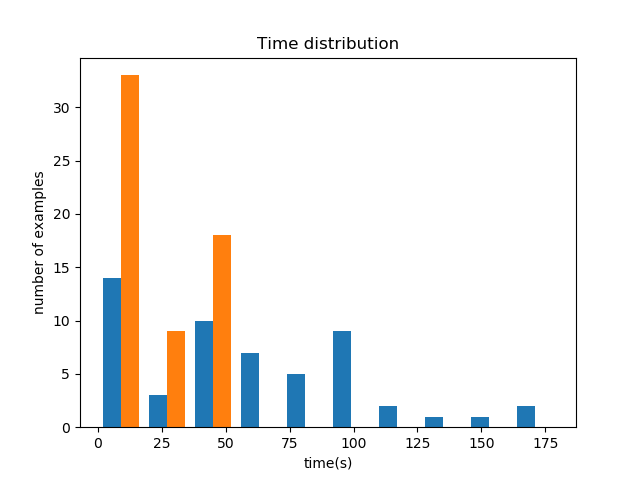
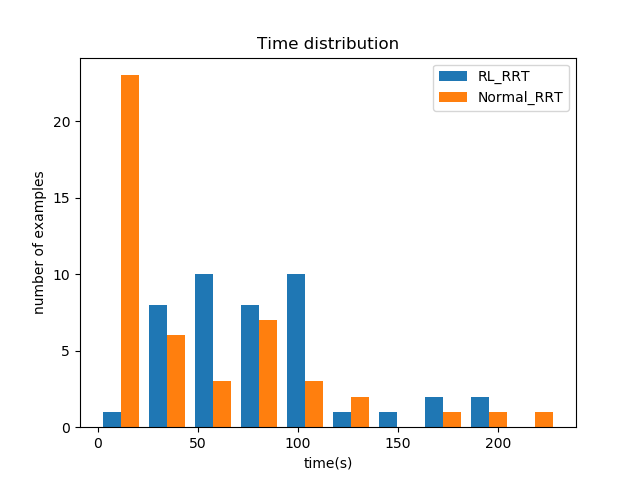
plot Normal_RRT and RL_RRT comparison on narrow passage statistics

diff --git a/test_output/connect_change/plot_stats.py b/test_output/connect_change/plot_stats.py
@@ -9,18 +9,43 @@ Normal_RRT_stats = {}
 with open('Normal_RRT_stats.json', 'r') as f:
     Normal_RRT_stats = json.load(f)
 
+fig1 = plt.figure()
+
 num_tests = len(RL_RRT_stats['time'])
 non_trivial_idx = []
 for idx in range(num_tests):
-    if RL_RRT_stats['iterations'][idx] >= 1:
+    if RL_RRT_stats['iterations'][idx] >= 10:
         non_trivial_idx.append(idx)
+print("non-trivial tests:", len(non_trivial_idx))
 
 comb = np.zeros(shape=(num_tests, 2))
 comb[:, 0] = RL_RRT_stats['time']
 comb[:, 1] = Normal_RRT_stats['time']
+non_trivial_comb = comb[non_trivial_idx, :]
 
-plt.hist(comb[non_trivial_idx, :], range=(0, 180), label=['RL_RRT', 'Normal_RRT'])
+plt.hist(non_trivial_comb, range=(0, 230), label=['RL_RRT', 'Normal_RRT'])
+print("RL_RRT non-trivial mean and std time:", non_trivial_comb[:, 0].mean(), non_trivial_comb[:, 0].std())
+print("Normal_RRT non-trivial mean and std time:", non_trivial_comb[:, 1].mean(), non_trivial_comb[:, 1].std())
+
 plt.xlabel("time(s)")
 plt.ylabel("number of examples")
 plt.title("Time distribution")
+plt.legend()
 plt.savefig('time_distribution.png')
+
+fig2 = plt.figure()
+
+comb = np.zeros(shape=(num_tests, 2))
+comb[:, 0] = RL_RRT_stats['iterations']
+comb[:, 1] = Normal_RRT_stats['iterations']
+non_trivial_comb = comb[non_trivial_idx, :]
+
+plt.hist(non_trivial_comb, range=(0, 50000), label=['RL_RRT', 'Normal_RRT'])
+print("RL_RRT non-trivial mean and std iterations:", non_trivial_comb[:, 0].mean(), non_trivial_comb[:, 0].std())
+print("Normal_RRT non-trivial mean and std iterations:", non_trivial_comb[:, 1].mean(), non_trivial_comb[:, 1].std())
+
+plt.xlabel("iterations")
+plt.ylabel("number of examples")
+plt.title("Iterations distribution")
+plt.legend()
+plt.savefig('iterations_distribution.png')

diff --git a/extract_time.py b/extract_time.py
@@ -2,9 +2,9 @@ import numpy as np
 
 # f_list = ["/home/yixuan/EECS598_006_final_project/test_output/time_test/yixuan_21_05_24_02_19_00_horizon_5_solver_RL_RRT_env_SShape-Boxes-256Pts-SurfaceNormals-v0_cpu_True",
 # "/home/yixuan/EECS598_006_final_project/test_output/time_test/yixuan_21_05_24_02_26_01_horizon_5_solver_Normal_RRT_env_SShape-Boxes-256Pts-SurfaceNormals-v0_cpu_True"]
-f_list = ['test_output/connect_change/yixuan_21_07_05_11_01_37_horizon_5_solver_Normal_RRT_env_SShape-Boxes-1024Pts-SurfaceNormals-v0_cpu_True']
+f_list = ['test_output/connect_change/yixuan_21_07_06_01_00_58_horizon_5_solver_Normal_RRT_env_SShape-Boxes-1024Pts-SurfaceNormals-v0_cpu_True']
 
-key = "iterations:"
+key = "time"
 # key = "time"
 
 for filename in f_list:
